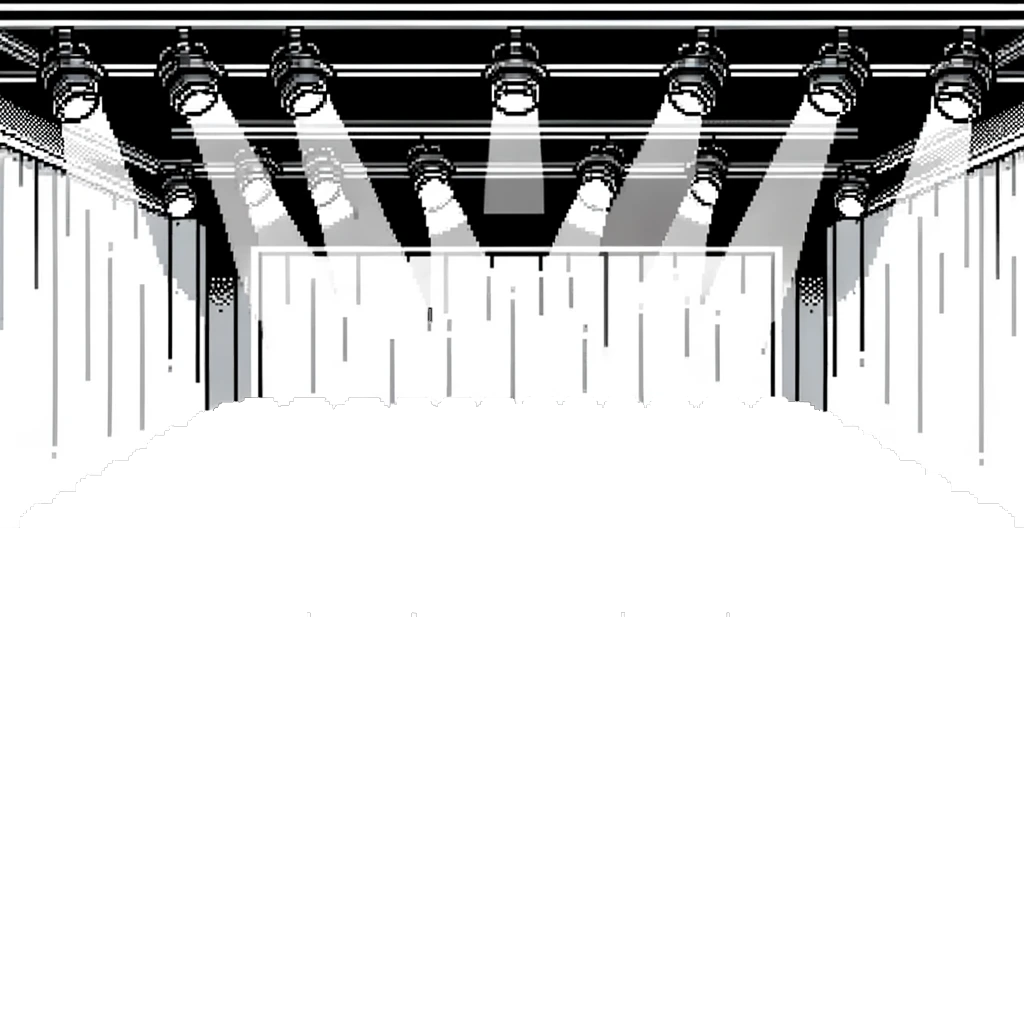
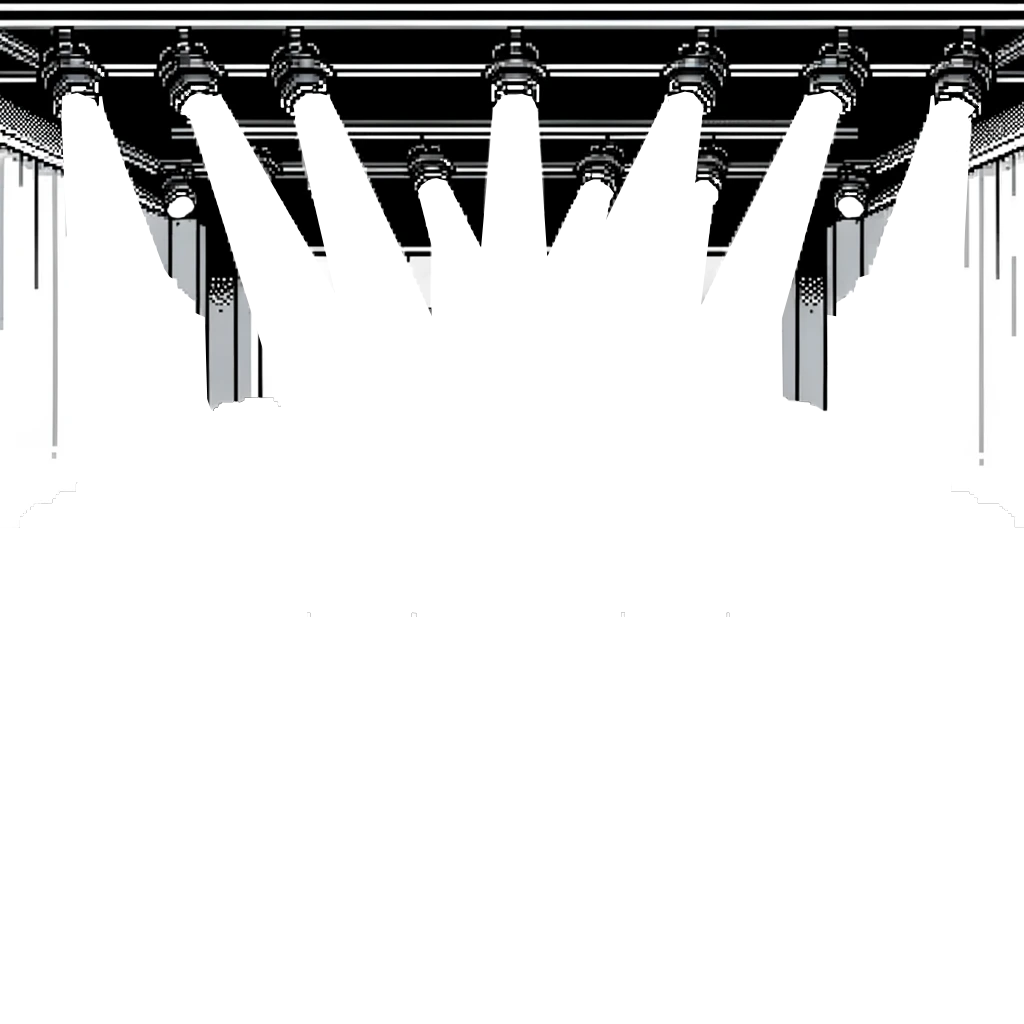
lighting

diff --git a/src/scenes/game.ts b/src/scenes/game.ts
@@ -55,8 +55,11 @@ export class Game extends Phaser.Scene {
   private createBackground(): Phaser.GameObjects.Group {
     const { height, width } = this.scale;
     const bg = this.add.sprite(width * 0.5, height* 0.5, 'background');
+    const lights = this.add.sprite(width * 0.5, height * 0.5, 'lights');
     bg.setDepth(-18);
     bg.setTint(0x40291c);
+    lights.setDepth(-17);
+    lights.setTint(0x754b33);
     const rows = [...new Array(8)].map((value, index) => {
       const row = this.add.sprite(width * 0.5, height * 0.5, `row-${index + 1}`);
       row.setDepth(8 - index * 2);

diff --git a/assets/manifest.ts b/assets/manifest.ts
@@ -16,6 +16,7 @@ export const assets = [
   { name: 'dino-8', path: 'assets/dino/dino-8.png' },
   { name: 'dino-9', path: 'assets/dino/dino-9.png' },
   { name: 'green-1', path: 'assets/people/green-1.png' },
+  { name: 'lights', path: 'assets/background/lights.png' },
   { name: 'purple-1', path: 'assets/people/purple-1.png' },
   { name: 'purple-2', path: 'assets/people/purple-2.png' },
   { name: 'red-1', path: 'assets/people/red-1.png' },
